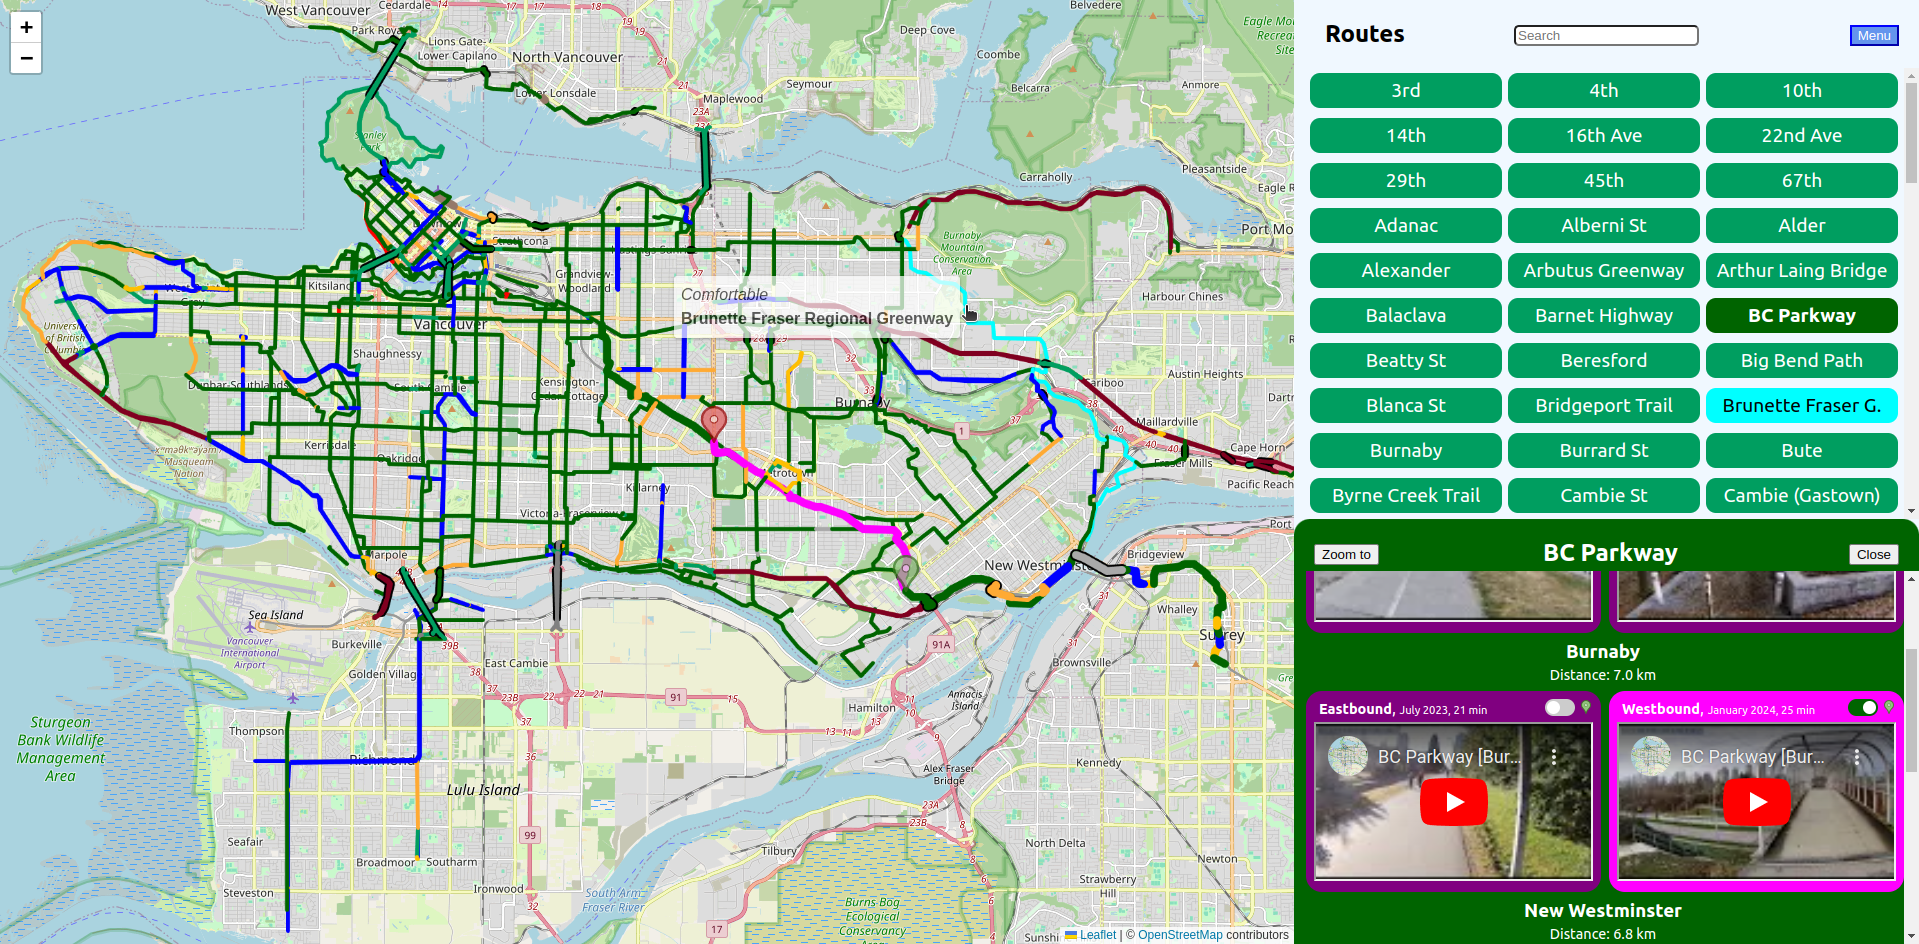
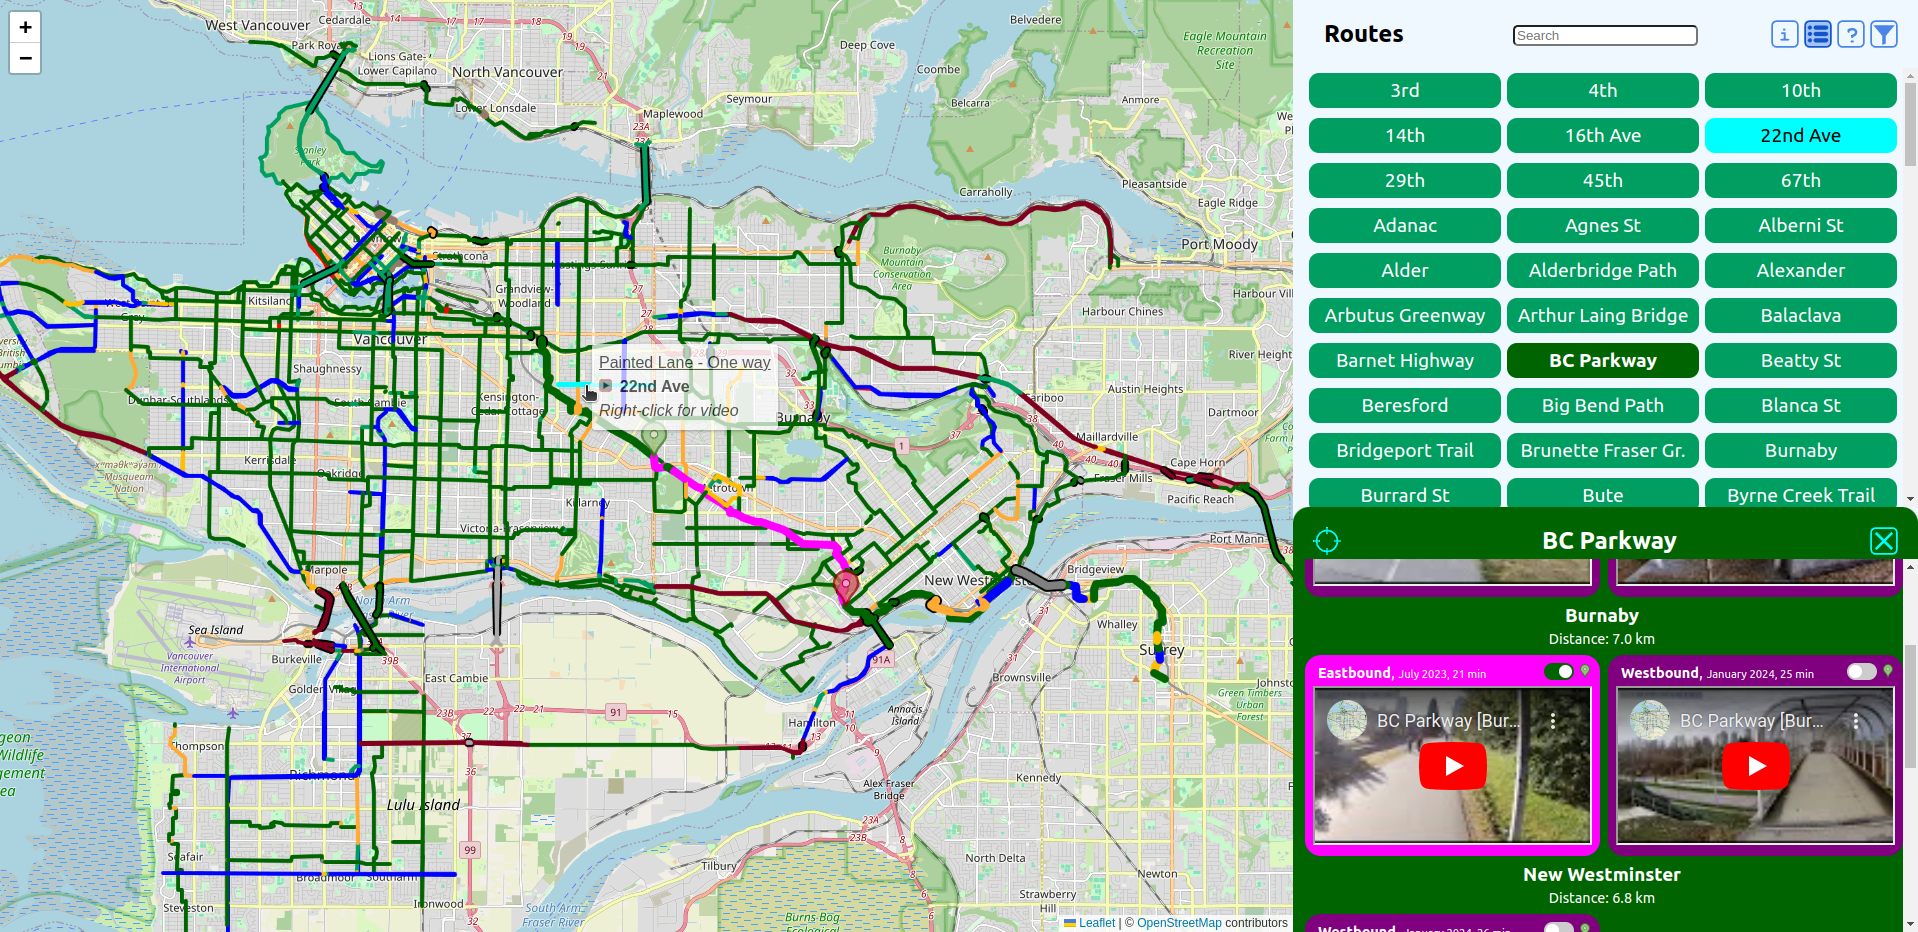
Update readme and preview image

diff --git a/README.md b/README.md
@@ -17,12 +17,12 @@ On GitHub Pages at [https://kr-matthews.github.io/bike-route-map](https://kr-mat
 - Bridges and tunnels/undercover routes visually distinct.
 - Select a route to see information and embedded YouTube video(s) (if available).
 - Explanatory legend.
+- Filters (to only show comfortable segments, for example).
 
 ### Potential Future
 
 See [enhancements](https://github.com/kr-matthews/bike-route-map/issues?q=is%3Aissue+is%3Aopen+label%3Aenhancement) on GitHub.
 
-- Ability to filter what types of infrastructure are shown (that is, filter to only show comfortable segments).
 - More routes in surrounding cities/areas.
 
 ## Original Intentions
